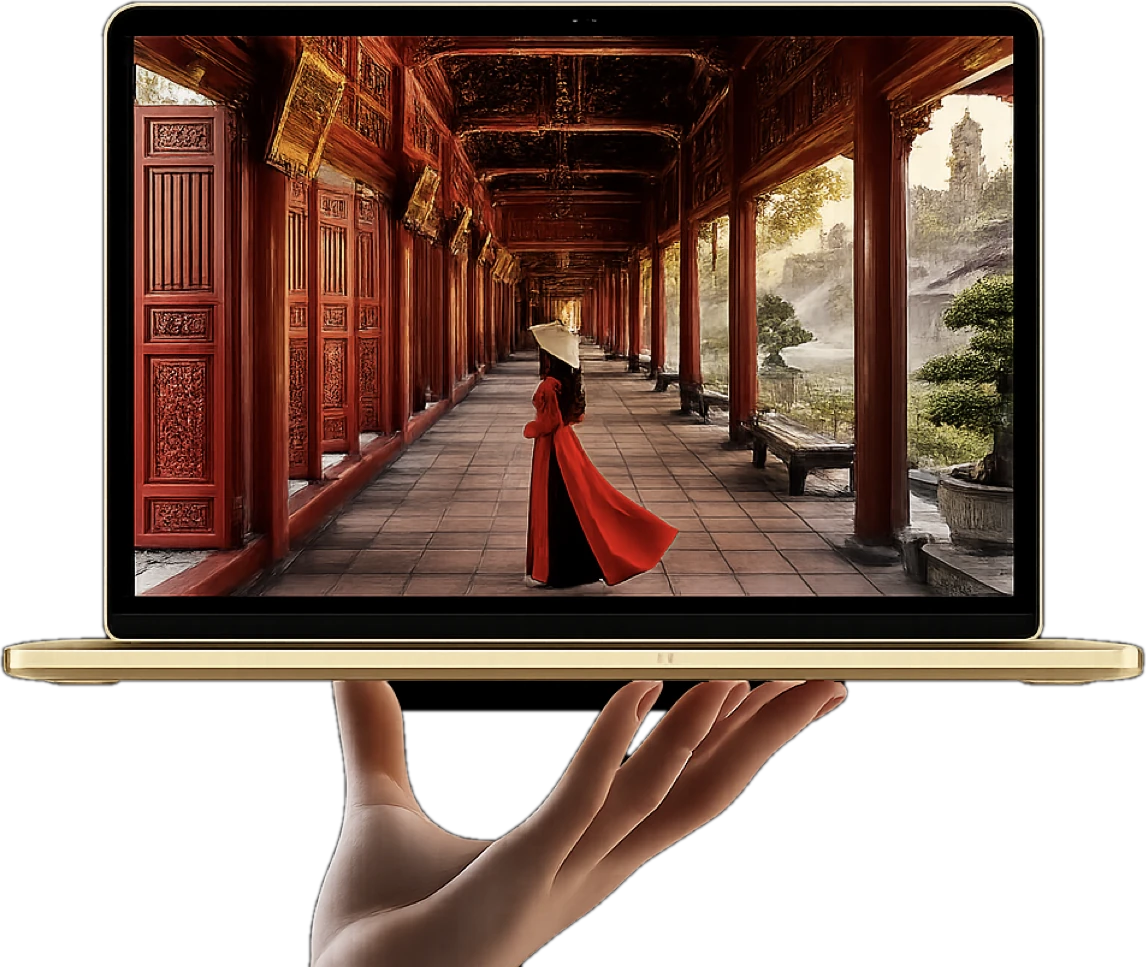
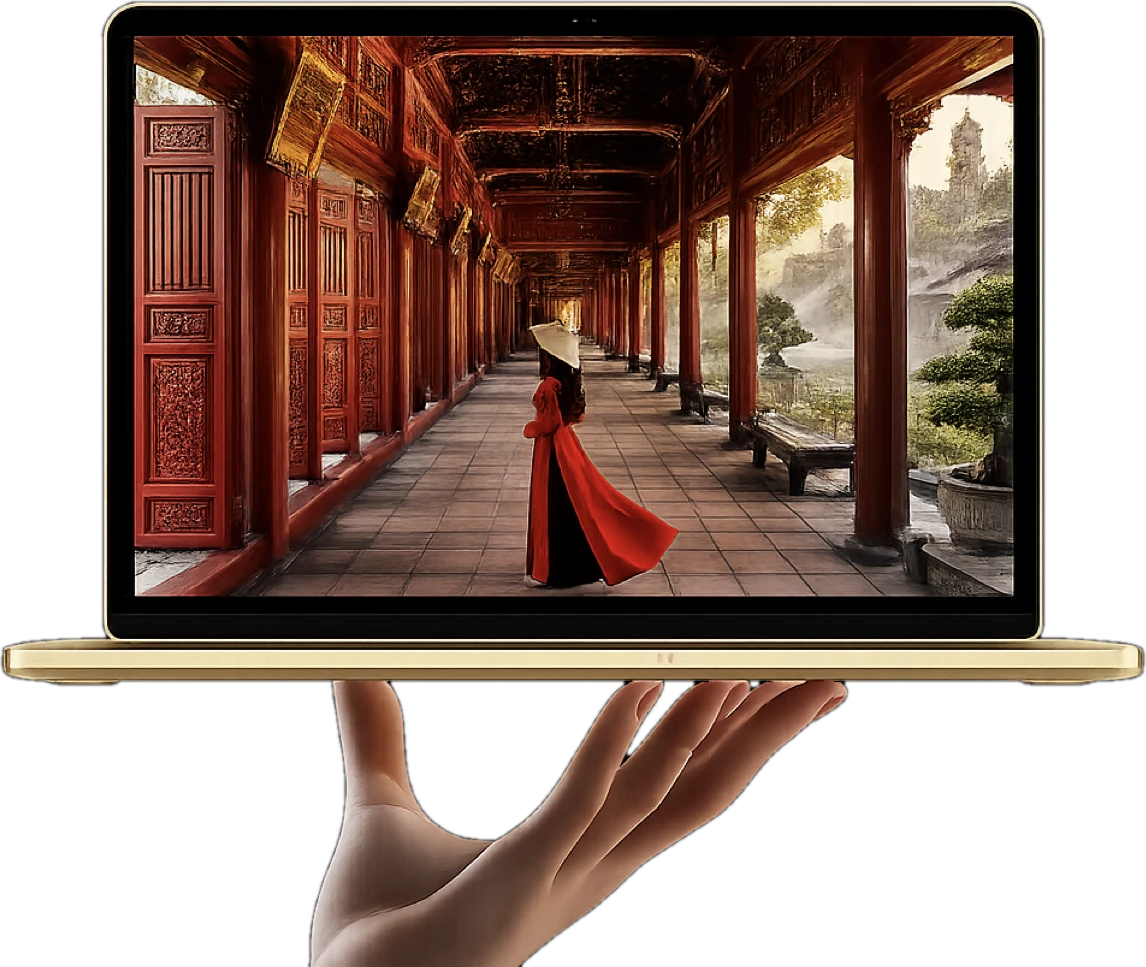
fix: Хюэ — убрана чёрная полоса между пальцами, кнопка не задевает ноутбук
Фон теперь определяется по связным областям, а не заливкой от кромок.
Прозрачной становится область, которая либо касается края кадра, либо
тёмная (средняя яркость < 12) и лежит ниже 80% высоты — это просветы между
пальцами, они давали чёрную полосу под ноутбуком (1.02% площади кадра).
Ограничение по низу обязательно: без него условие по яркости выбивало
тёмные места внутри экрана и в фотографии появлялись белые дыры.

Отступ под текст поднят со 120 до 168px: замер показал, что текстовый блок
кончается на 137px, при 120 кнопка задевала верхнюю кромку ноутбука.

Changed region(s): [[0.336, 0.6825, 0.6108, 0.7446]]

diff --git a/index.html b/index.html
@@ -1102,21 +1102,24 @@
        подложка, стыка не видно.
        Как вырезано: фон файла — чистый ноль по всем каналам, поэтому порог
        яркости 14 надёжнее сегментации (u2net на этом кадре разваливалась).
-       Две тонкости. Заливку фона нельзя сеять с любой кромки: ладонь доходит
-       до нижней границы кадра, и затравка попадала на объект — стиралcя он, а
-       не фон; сеем только по точкам, которые уже признаны фоном. И ниже
-       корпуса (84% высоты) дыры не заполняем: просветы между пальцами — это
-       фон, а заполнение делало из них чёрное пятно. */
+       Фон определяется по связным областям, а не заливкой от кромок: ладонь
+       доходит до нижней границы кадра, и затравка попадала на объект — стирался
+       он, а не фон. Прозрачной становится область, которая либо касается края
+       кадра, либо тёмная (средняя яркость < 12) и лежит ниже 80% высоты — это
+       просветы между пальцами, они давали чёрную полосу под ноутбуком. Условие
+       по яркости обязано быть ограничено низом: без этого оно выбивало тёмные
+       места внутри экрана и в фотографии появлялись дыры. */
     .water-card--hue { background: #f5f5f7; }
     .water-card--hue img {
       object-fit: contain;
       object-position: center bottom;
       /* Верх карточки отдан тексту. Без этого вырезка вписывалась во всю
          высоту плитки (540px), ноутбук поднимался под самый край и заголовок
-         ложился на экран — контраст падал до 2.5 при норме 3. Отступ 120px
-         равен высоте текстового блока с запасом; кадр вписывается в остаток
-         420px и заканчивается ниже надписи. */
-      padding: 120px 6% 0;
+         ложился на экран — контраст падал до 2.5 при норме 3. Отступ 168px
+         снят по факту: текстовый блок кончается на 140px (заголовок 40,
+         подзаголовок 30, кнопка 40 и зазоры), плюс 28px воздуха. При 120px
+         кнопка ещё задевала верхнюю кромку ноутбука. */
+      padding: 168px 6% 0;
       box-sizing: border-box;
     }
     .water-card--hue .water-card__body .water-card__title,
@@ -1730,7 +1733,7 @@
       </div>
 
       <div class="water-card water-card--hue">
-        <img src="images/hue-macbook.webp?v=2" alt="Хюэ — Императорская цитадель на экране" loading="lazy" />
+        <img src="images/hue-macbook.webp?v=3" alt="Хюэ — Императорская цитадель на экране" loading="lazy" />
         <div class="water-card__body">
           <p class="water-card__title">Императорский Хюэ</p>
           <p class="water-card__sub">Запретный город · Величие династий · 85$</p>
